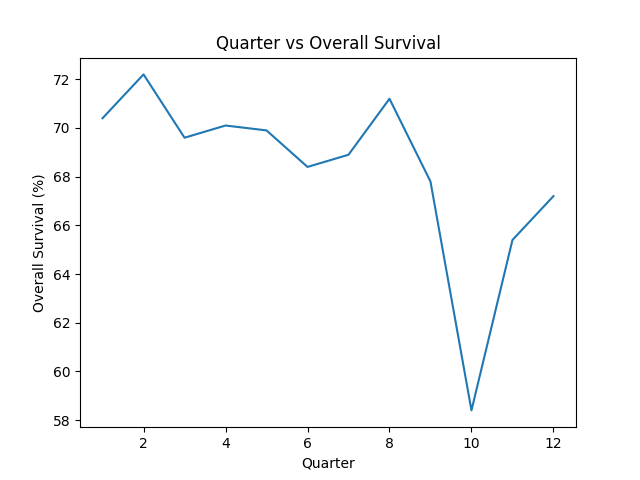
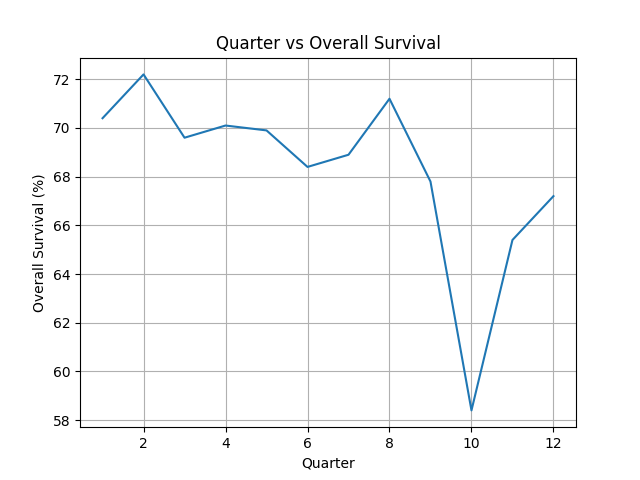
updated

diff --git a/Plotting/the_plot.py b/Plotting/the_plot.py
@@ -14,5 +14,6 @@ plt.plot(df["Quarter_from_2018"], df["Overall_survival_rate"])
 plt.xlabel("Quarter")
 plt.ylabel("Overall Survival (%)")
 plt.title("Quarter vs Overall Survival")
+plt.grid(True)
 plt.show()
 plt.savefig("survival_plot.png")

diff --git a/Sum till Billion/sum.py b/Sum till Billion/sum.py
@@ -1,0 +1,3 @@
+"""
+Here the most optimal soln is also solved in few hours
+There are approaches you need to know they are
